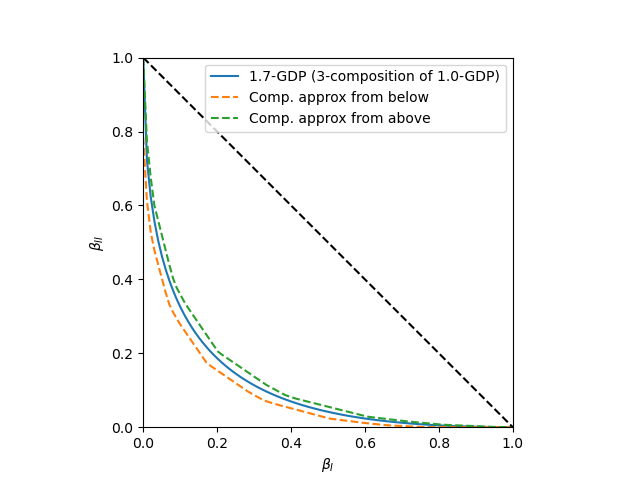
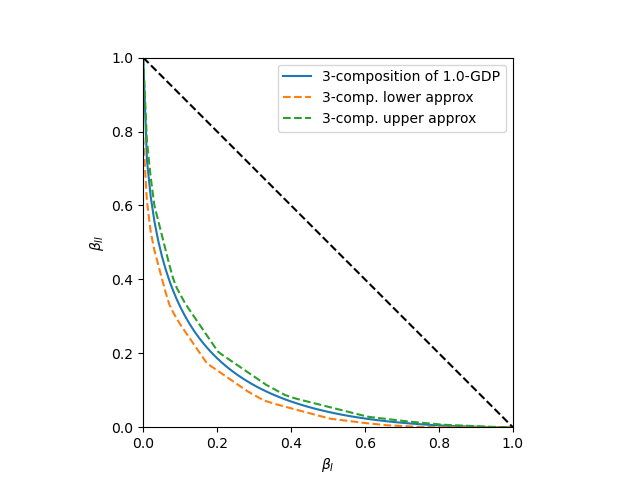
added heterogeneous comparison

Changed region(s): [[0.375, 0.125, 0.7812, 0.2812], [0.3125, 0.1562, 0.375, 0.2812]]

diff --git a/src/main.py b/src/main.py
@@ -46,12 +46,21 @@ def mixture_example(alpha_1,eps_1, delta_1, eps_2, delta_2, title):
                             save_to=png(title)
                             )
 
-def heterogeneous_comparison(eps_1, eps_2, x, y, delta_slack_ls):
+def heterogeneous_comparison(eps_1, eps_2, x, y, delta_slack_ls, title):
+    """
+    Plot the approximation of the heterogeneous composition of two single-DP mechanisms compared to
+    the exact region.
+    """
     f_ours = privacy_region_composition_heterogeneous(eps_1, eps_2, x, y)
-    f_approx = privacy_region_approx_heterogeneous_composition_multi_slacks([eps_1, eps_2], [0, 0],
-                                                                            delta_slack_ls)
+    eps_ls = [eps_1] * x + [eps_2] * y
+    delta_ls = [0] * (x+y)
+    f_approx = privacy_region_approx_heterogeneous_composition_multi_slacks(eps_ls, delta_ls, delta_slack_ls)
 
-    plot_multiple_functions([f_ours, f_approx], [f"Our DP", f"Approximation"])
+    plot_multiple_functions(
+        [f_ours, f_approx],
+        [f"Our DP", f"Approximation"],
+        save_to=png(title)
+    )
 
 def main_theorem_comparison(eps_1, delta_1, eps_2, delta_2, k, title):
     """
@@ -438,6 +447,7 @@ def laplace_tradeoff_approx(eps, title):
 
 
 if __name__ == "__main__":
+    heterogeneous_comparison(eps_1=0.6,eps_2=0.4,x=3,y=2,delta_slack_ls=[0.001], title="heterogeneous_comparison")
     mixture_example(alpha_1 = 0.5, eps_1 = 1.3, delta_1 = 0.0, eps_2 = 0.5, delta_2 = 0.2, title="mixture_example")
     gaussian_tradeoff_approx(mu=1, title="gaussian_approx")
     gaussian_compos_approx(k=20, mu=0.05, title="gaussian_compos_approx")

diff --git a/src/main_theorems/other_composition_theorems.py b/src/main_theorems/other_composition_theorems.py
@@ -136,6 +136,6 @@ def privacy_region_approx_heterogeneous_composition_multi_slacks(
         delta_ls: Array,
         delta_slack_ls: Array
 ) -> TradeOffFunction:
-    return TradeOffFunction.intersection([privacy_region_heterogeneous_composition(
+    return TradeOffFunction.intersection([privacy_region_approx_heterogeneous_composition(
         eps_ls, delta_ls, delta_s
     ) for delta_s in delta_slack_ls])
